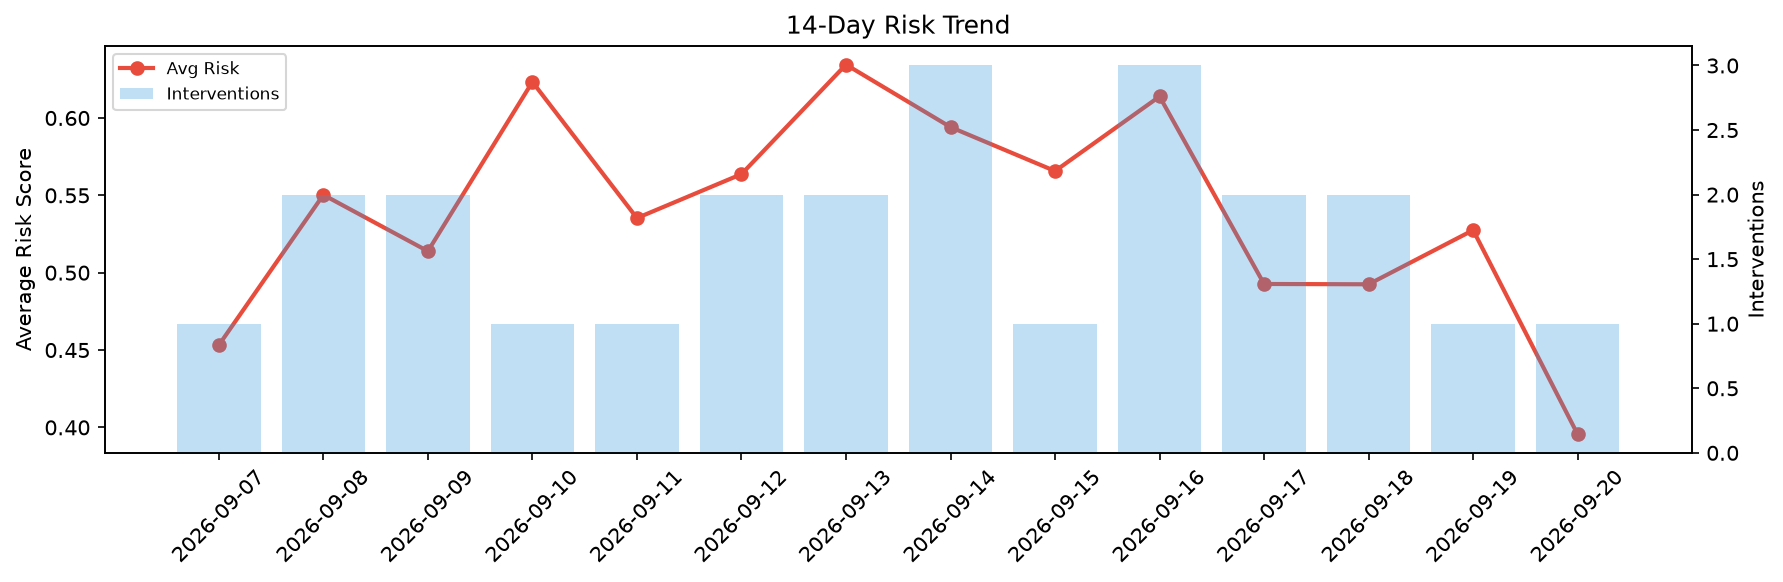
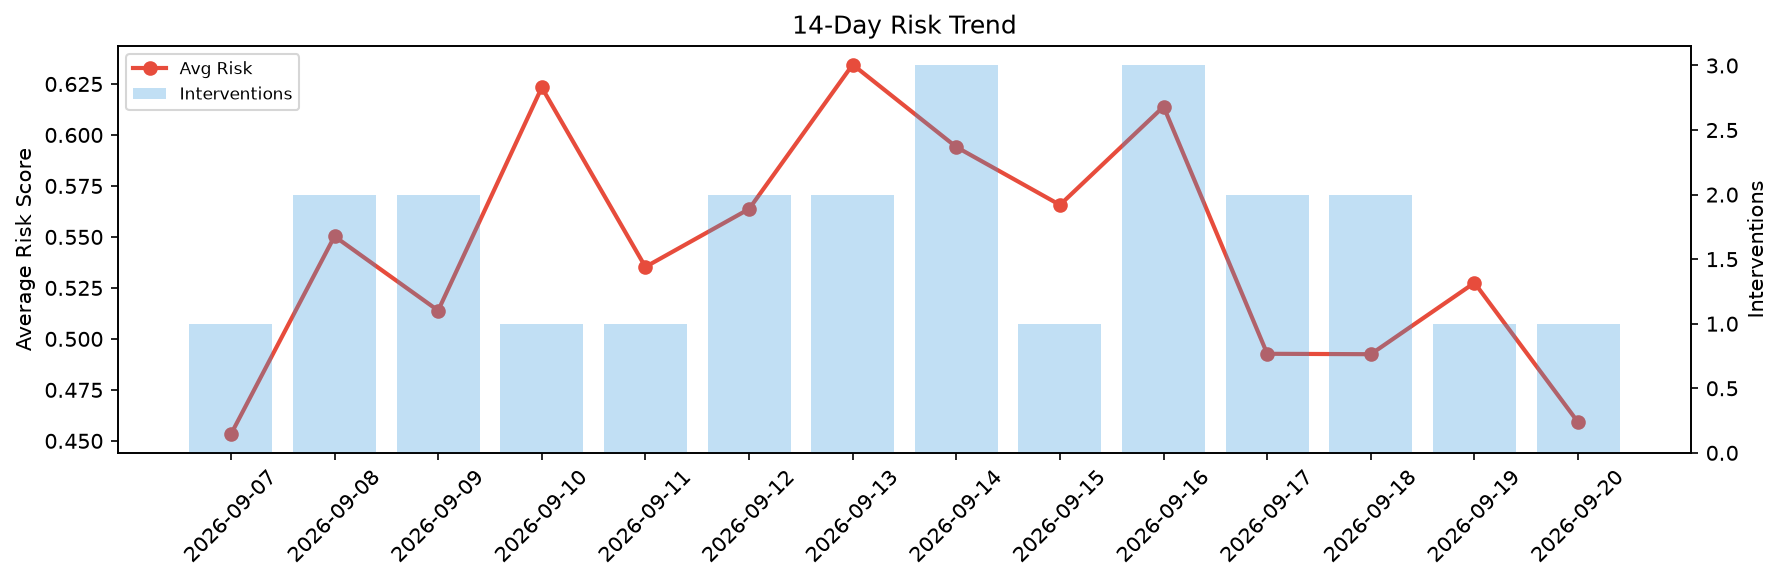
agent-improvement: daily cycle 2026-09-20T13:02

diff --git a/logs/2026-09-20.md b/logs/2026-09-20.md
@@ -1,6 +1,6 @@
 # Agent Improvement Report — 2026-09-20
 
-**Cycle ID:** `d0e33f30` | **Avg Risk:** 0.3955 | **Interventions:** 1/4
+**Cycle ID:** `029e94cf` | **Avg Risk:** 0.4591 | **Interventions:** 1/4
 
 ![Dashboard](2026-09-20_dashboard.png)
 
@@ -10,18 +10,18 @@
 
 | Domain | Risk Score | Decision | Alerts |
 |--------|-----------|----------|--------|
-| code_review | 0.6304 | intervene | complexity |
-| incident_response | 0.4016 | monitor | none |
-| data_pipeline | 0.1106 | monitor | none |
-| deployment | 0.4395 | monitor | none |
+| code_review | 0.5251 | monitor | complexity |
+| incident_response | 0.3101 | monitor | none |
+| data_pipeline | 0.3576 | monitor | none |
+| deployment | 0.6435 | intervene | rollback_rate, latency_p99 |
 
 ## Delta vs Yesterday
 
 | Domain | Today | Yesterday | Change |
 |--------|-------|-----------|--------|
-| code_review | 0.6304 | 0.5162 | 📈 22.1% |
-| incident_response | 0.4016 | 0.3858 | 📈 4.1% |
-| data_pipeline | 0.1106 | 0.3703 | 📉 -70.1% |
-| deployment | 0.4395 | 0.8378 | 📉 -47.5% |
+| code_review | 0.5251 | 0.5162 | 📈 1.7% |
+| incident_response | 0.3101 | 0.3858 | 📉 -19.6% |
+| data_pipeline | 0.3576 | 0.3703 | 📉 -3.4% |
+| deployment | 0.6435 | 0.8378 | 📉 -23.2% |
 
-**Refinement:** `{'adjustment': 'maintain', 'trend': 'improving', 'window': 4}`
+**Refinement:** `{'adjustment': 'tighten_thresholds', 'trend': 'degrading', 'window': 4}`
